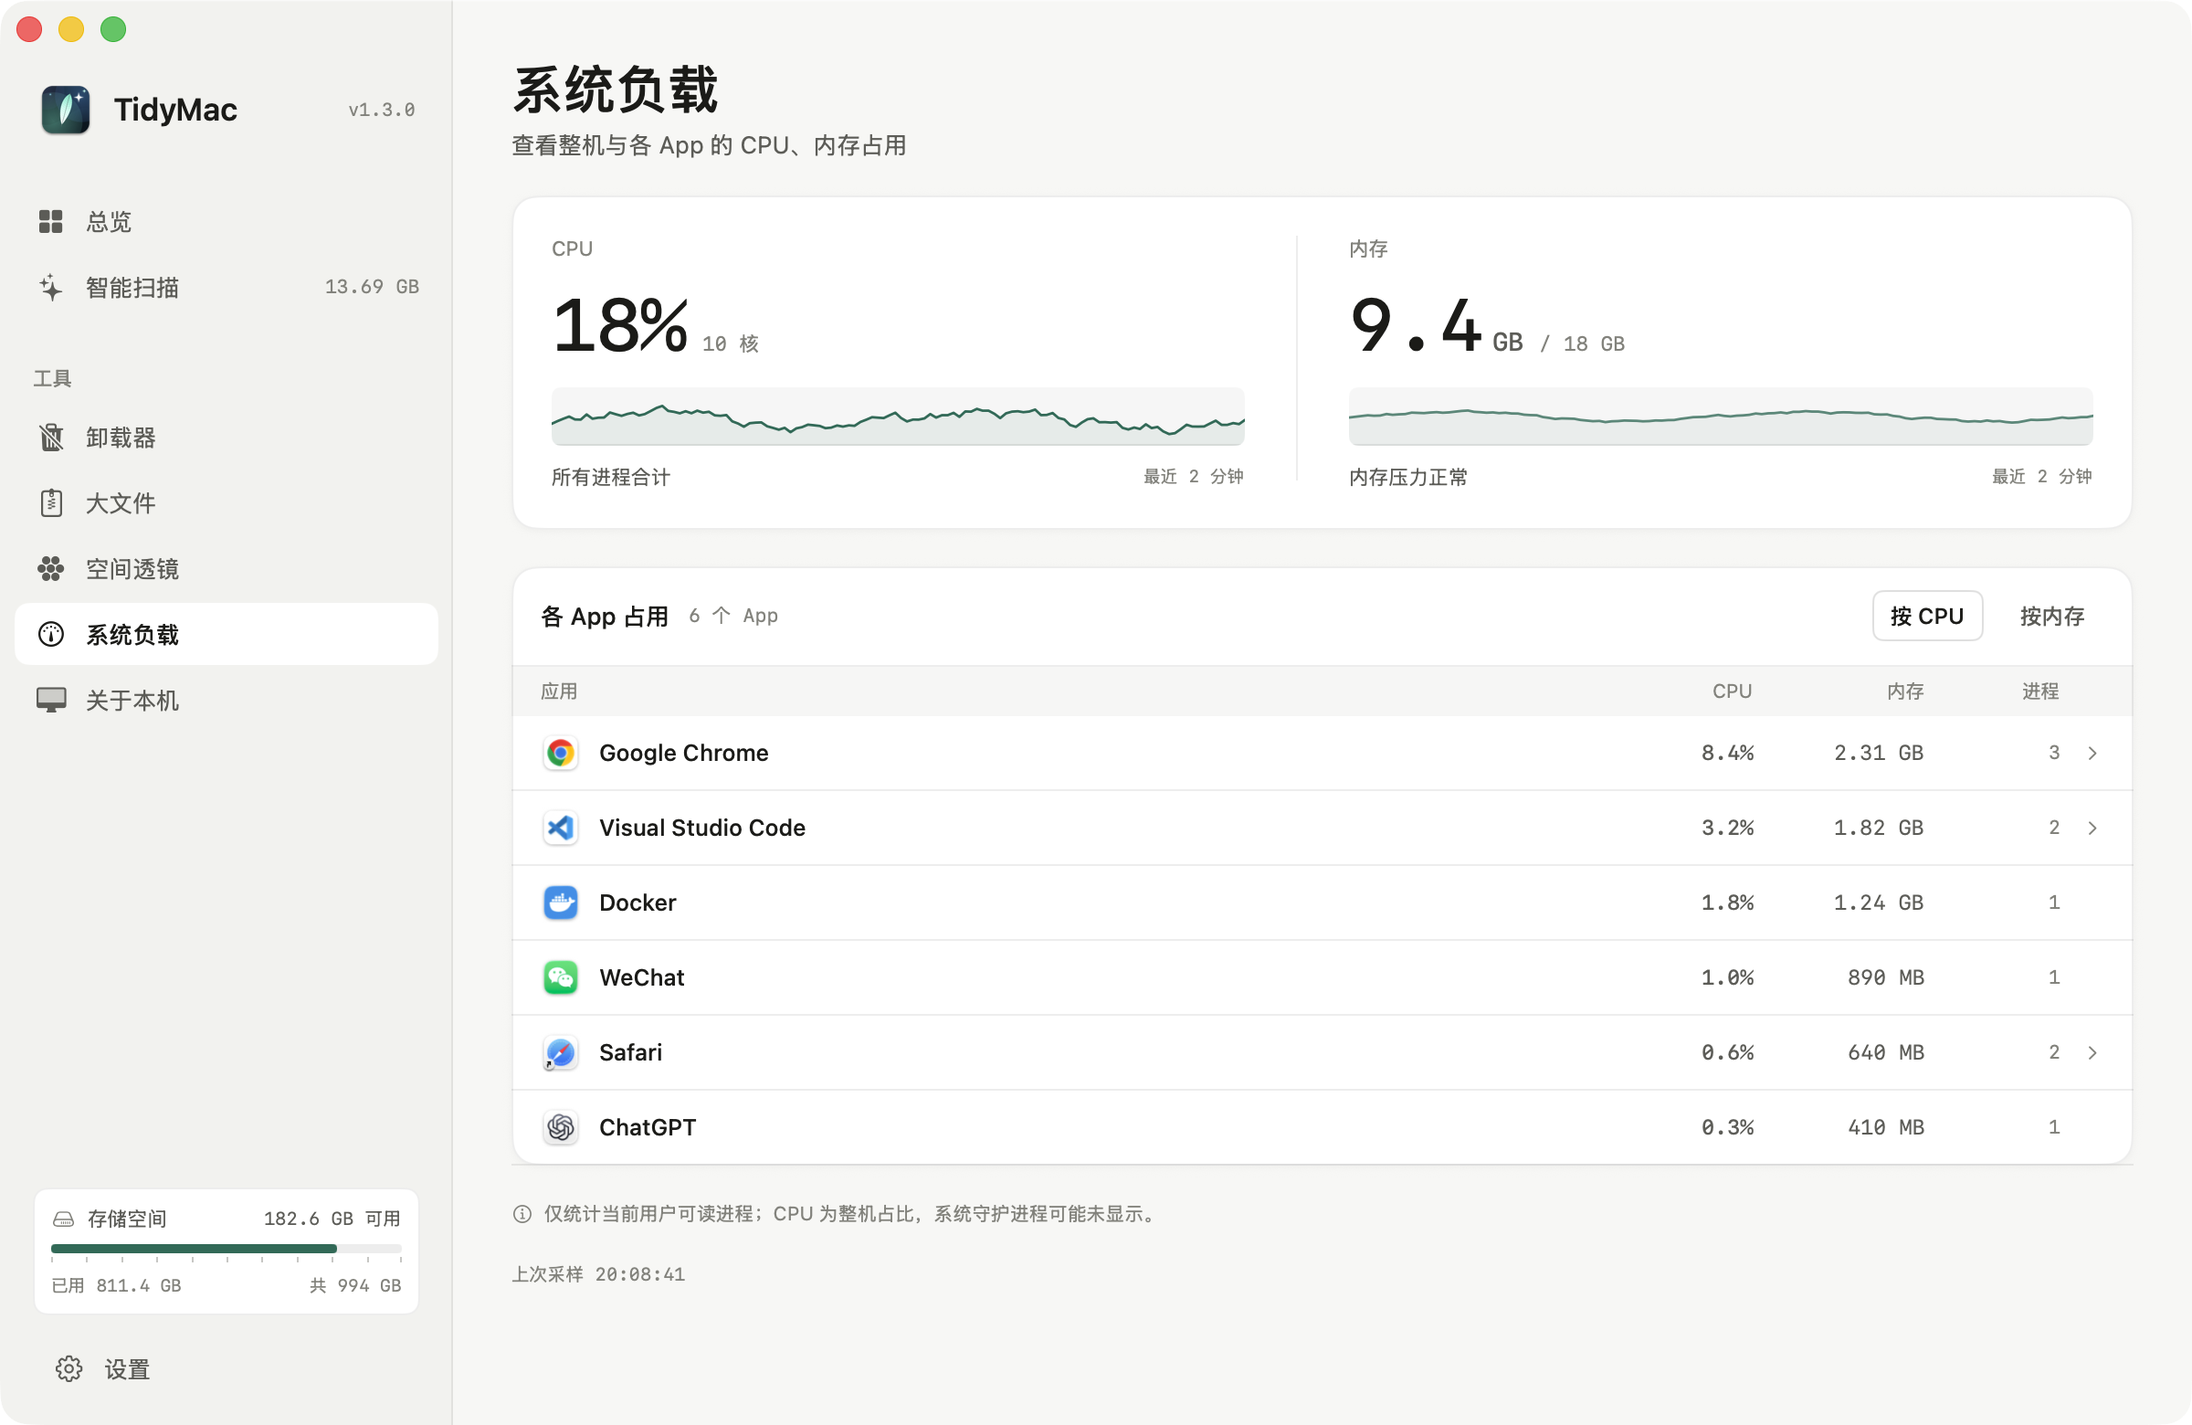
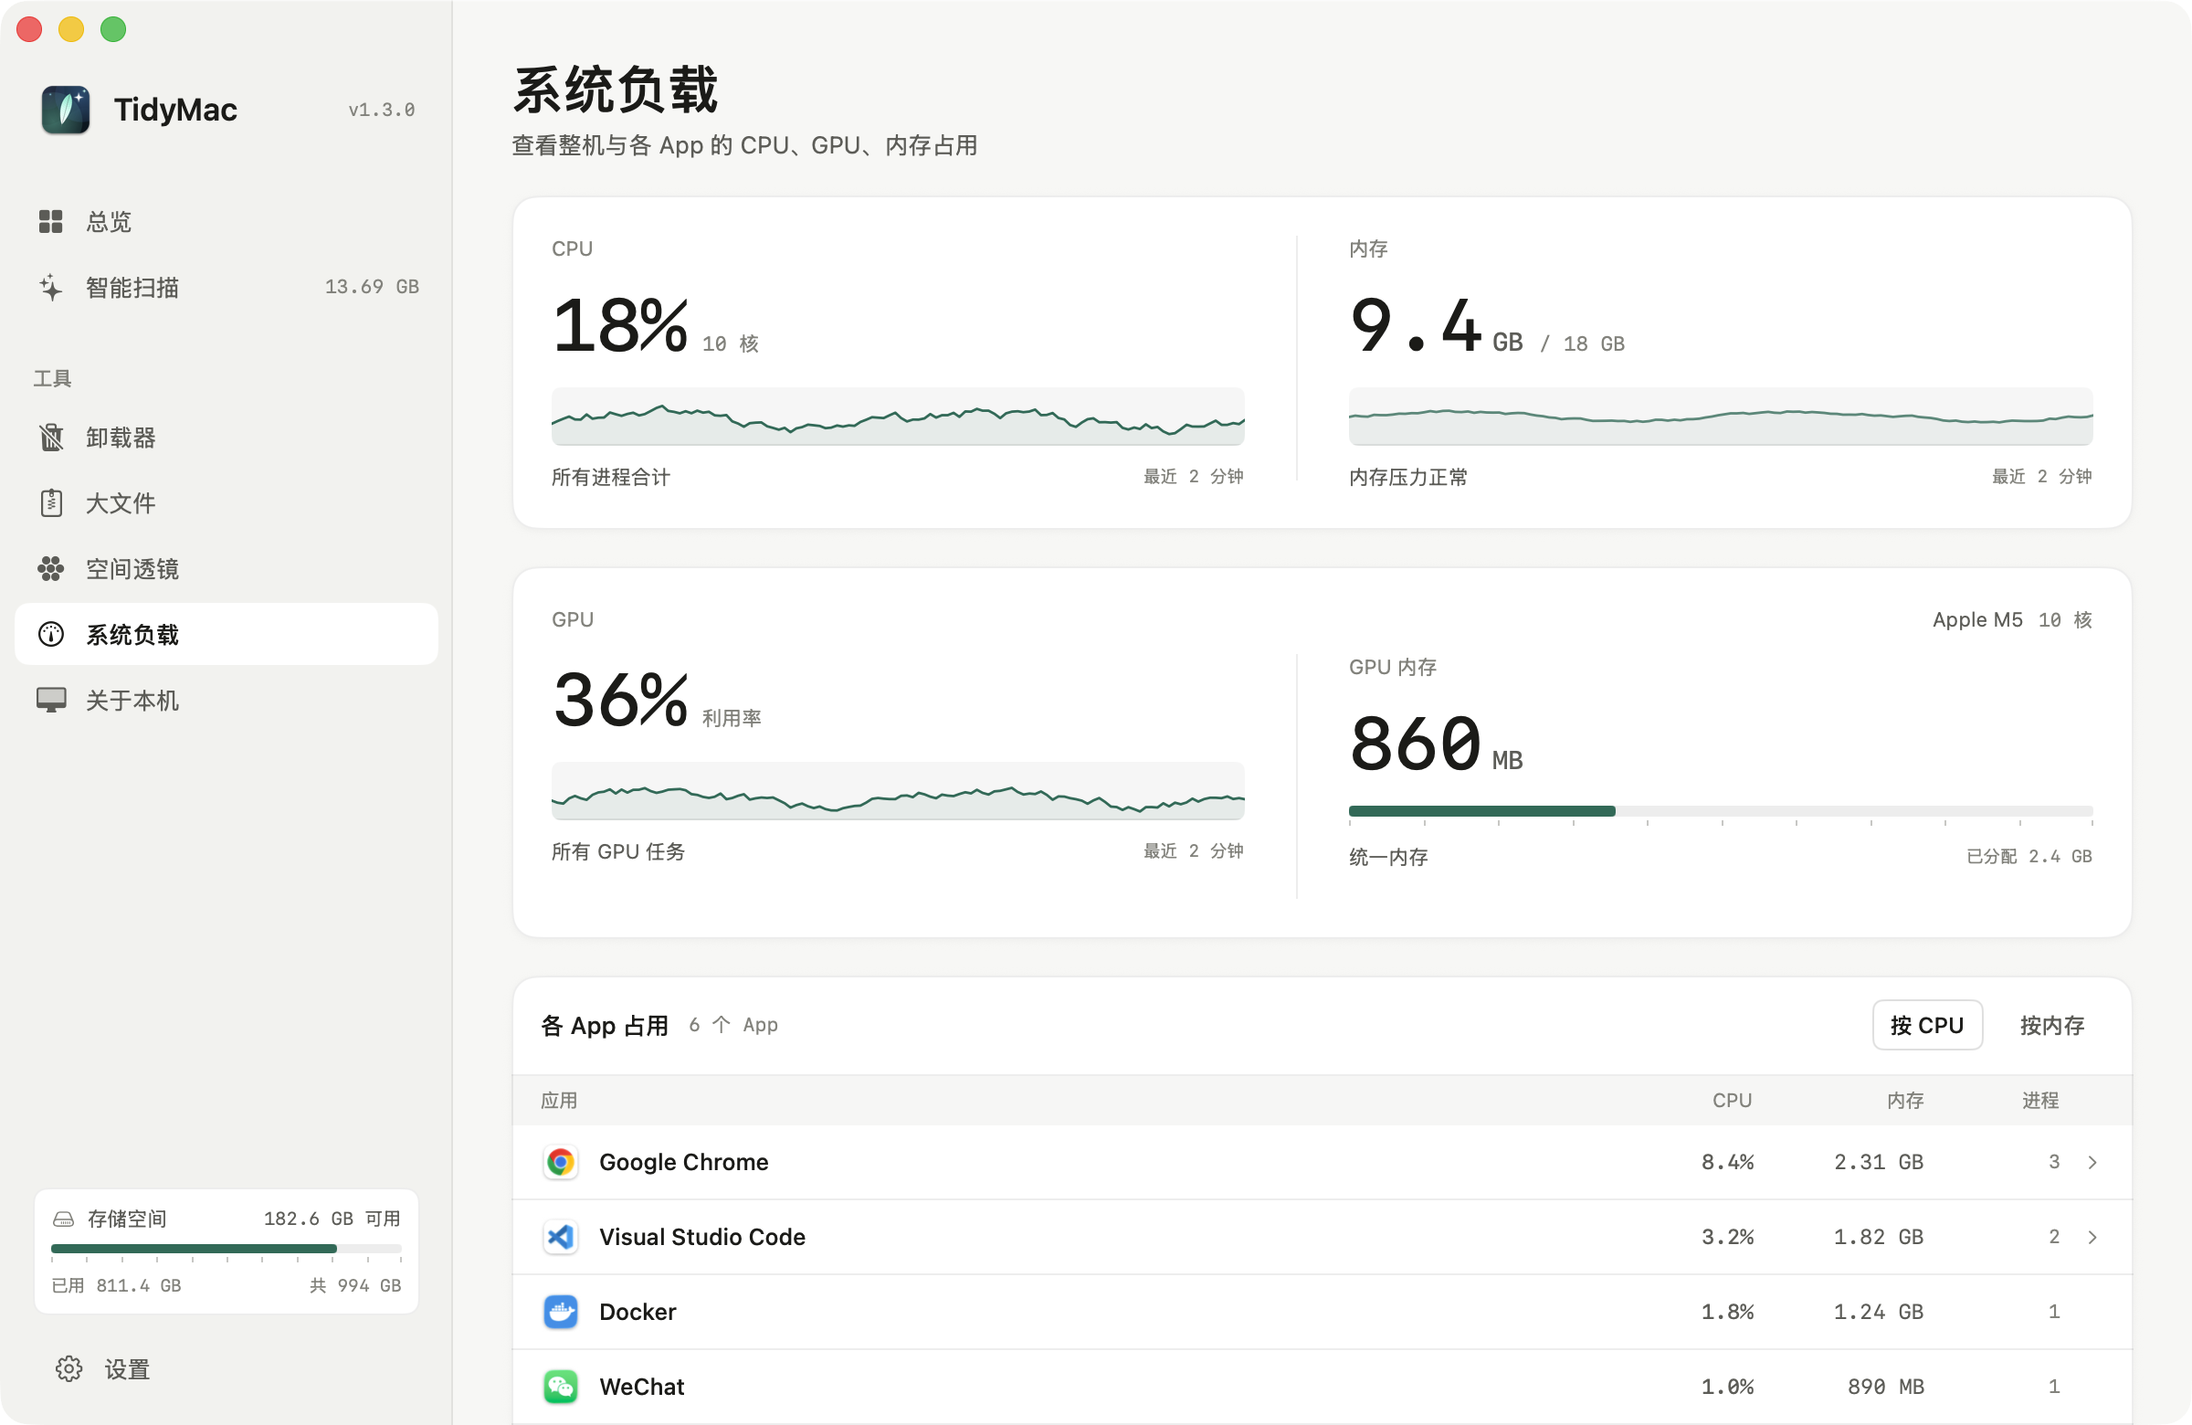
feat(ui): add GPU utilization and memory to System Load

diff --git a/Sources/UI/SystemLoadPage.swift b/Sources/UI/SystemLoadPage.swift
@@ -26,9 +26,10 @@ struct SystemLoadPage: View {
     var body: some View {
         ScrollView(showsIndicators: false) {
             VStack(alignment: .leading, spacing: 20) {
-                PageHeader(title: "系统负载", subtitle: "查看整机与各 App 的 CPU、内存占用")
+                PageHeader(title: "系统负载", subtitle: "查看整机与各 App 的 CPU、GPU、内存占用")
 
                 overallCard
+                gpuCard
                 appsCard
 
                 HStack(spacing: 6) {
@@ -176,6 +177,10 @@ struct SystemLoadPage: View {
         trend(monitor.memoryHistory, current: memoryFraction)
     }
 
+    private var gpuHistory: [Double] {
+        trend(monitor.gpuHistory, current: monitor.snapshot?.gpu?.utilizationFraction ?? 0)
+    }
+
     private func trend(_ history: [Double], current: Double) -> [Double] {
         history.count > 1 ? history : [current, current]
     }
@@ -197,6 +202,123 @@ struct SystemLoadPage: View {
         case .normal, .none: return Theme.textSecondary
         case .warning: return Theme.caution
         case .critical: return Theme.negative
+        }
+    }
+
+    // MARK: - GPU
+
+    private var gpuCard: some View {
+        VStack(alignment: .leading, spacing: 12) {
+            HStack(alignment: .firstTextBaseline, spacing: 8) {
+                Text("GPU")
+                    .font(.system(size: 11))
+                    .foregroundStyle(Theme.textTertiary)
+                Spacer(minLength: 8)
+                if let gpu = monitor.snapshot?.gpu {
+                    Text(gpu.model)
+                        .font(.system(size: 11))
+                        .foregroundStyle(Theme.textSecondary)
+                    if gpu.coreCount > 0 {
+                        Text(L("%@ 核", "\(gpu.coreCount)"))
+                            .font(Theme.monoFont(10.5))
+                            .foregroundStyle(Theme.textTertiary)
+                    }
+                }
+            }
+
+            if let gpu = monitor.snapshot?.gpu {
+                HStack(alignment: .top, spacing: 0) {
+                    gpuUtilizationColumn(gpu)
+                        .frame(maxWidth: .infinity, alignment: .leading)
+                        .padding(.trailing, 28)
+
+                    Rectangle()
+                        .fill(Theme.stroke)
+                        .frame(width: 1, height: 134)
+                        .padding(.trailing, 28)
+
+                    gpuMemoryColumn(gpu)
+                        .frame(maxWidth: .infinity, alignment: .leading)
+                }
+            } else {
+                Text(L("无法读取此设备的 GPU 统计"))
+                    .font(.system(size: 11))
+                    .foregroundStyle(Theme.textSecondary)
+                    .padding(.vertical, 8)
+            }
+        }
+        .qyPanel(padding: 22)
+    }
+
+    private func gpuUtilizationColumn(_ gpu: GPUMetrics) -> some View {
+        VStack(alignment: .leading, spacing: 10) {
+            HStack(alignment: .firstTextBaseline, spacing: 8) {
+                let text = percent(gpu.utilizationFraction)
+                Text(text)
+                    .font(Theme.monoFont(40, weight: .medium))
+                    .foregroundStyle(Theme.textPrimary)
+                    .contentTransition(.numericText())
+                    .animation(.easeOut(duration: 0.28), value: text)
+                Text(L("利用率"))
+                    .font(Theme.monoFont(11))
+                    .foregroundStyle(Theme.textTertiary)
+            }
+
+            LoadTrendChart(values: gpuHistory, color: Theme.accent, minimumSpan: 0.08)
+                .frame(height: 32)
+                .padding(.top, 2)
+
+            HStack(spacing: 8) {
+                Text(L("所有 GPU 任务"))
+                    .font(.system(size: 11))
+                    .foregroundStyle(Theme.textSecondary)
+                Spacer(minLength: 8)
+                Text(trendWindowLabel(monitor.gpuHistory.count))
+                    .font(Theme.monoFont(9.5))
+                    .foregroundStyle(Theme.textTertiary)
+            }
+        }
+    }
+
+    private func gpuMemoryColumn(_ gpu: GPUMetrics) -> some View {
+        VStack(alignment: .leading, spacing: 10) {
+            Text(L("GPU 内存"))
+                .font(.system(size: 11))
+                .foregroundStyle(Theme.textTertiary)
+
+            HStack(alignment: .firstTextBaseline, spacing: 4) {
+                let parts = Format.bytesParts(gpu.inUseBytes)
+                Text(parts.number)
+                    .font(Theme.monoFont(40, weight: .medium))
+                    .foregroundStyle(Theme.textPrimary)
+                    .contentTransition(.numericText())
+                    .animation(.easeOut(duration: 0.28), value: parts.number)
+                if !parts.unit.isEmpty {
+                    Text(parts.unit)
+                        .font(Theme.monoFont(14, weight: .medium))
+                        .foregroundStyle(Theme.textSecondary)
+                        .contentTransition(.numericText())
+                        .animation(.easeOut(duration: 0.28), value: parts.unit)
+                }
+            }
+
+            CapacityRuler(
+                fraction: gpu.allocatedBytes > 0
+                    ? min(Double(gpu.inUseBytes) / Double(gpu.allocatedBytes), 1)
+                    : 0,
+                height: 6
+            )
+            .padding(.top, 2)
+
+            HStack(spacing: 8) {
+                Text(L("统一内存"))
+                    .font(.system(size: 11))
+                    .foregroundStyle(Theme.textSecondary)
+                Spacer(minLength: 8)
+                Text(L("已分配 %@", Format.bytes(gpu.allocatedBytes)))
+                    .font(Theme.monoFont(9.5))
+                    .foregroundStyle(Theme.textTertiary)
+            }
         }
     }
 

diff --git a/Sources/Core/SystemMetrics.swift b/Sources/Core/SystemMetrics.swift
@@ -43,6 +43,7 @@ struct SystemLoadSnapshot: Equatable, Sendable {
     let memoryTotalBytes: Int64
     let memoryPressure: MemoryPressureLevel
     let swapUsedBytes: Int64
+    let gpu: GPUMetrics?
     let appUsages: [AppUsage]
     let readableProcessCount: Int
     let sampledAt: Date
@@ -59,6 +60,7 @@ final class SystemLoadMonitor: ObservableObject {
     @Published private(set) var isSampling = false
     @Published private(set) var cpuHistory: [Double] = []
     @Published private(set) var memoryHistory: [Double] = []
+    @Published private(set) var gpuHistory: [Double] = []
 
     /// One-second cadence × 120 samples = a two-minute trend.
     static let refreshInterval: TimeInterval = 1
@@ -107,7 +109,14 @@ final class SystemLoadMonitor: ObservableObject {
                     self.memoryHistory = Self.demoHistory(
                         base: Double(demo.memoryUsedBytes) / Double(max(demo.memoryTotalBytes, 1)),
                         amplitude: 0.007,
-                        noiseScale: 0.25
+                        noiseScale: 0.25,
+                        seed: 0x5DEE_CE66_D1F1_3A55
+                    )
+                    self.gpuHistory = Self.demoHistory(
+                        base: demo.gpu?.utilizationFraction ?? 0.36,
+                        amplitude: 0.030,
+                        noiseScale: 0.55,
+                        seed: 0xC0FF_EE00_1234_5678
                     )
                     self.isSampling = true
                 }
@@ -124,6 +133,7 @@ final class SystemLoadMonitor: ObservableObject {
             DispatchQueue.main.async {
                 self.cpuHistory = []
                 self.memoryHistory = []
+                self.gpuHistory = []
                 self.isSampling = true
             }
         }
@@ -171,6 +181,7 @@ final class SystemLoadMonitor: ObservableObject {
 
         let cpu = sampleHostCPU()
         let memory = sampleMemory()
+        let gpu = GPUProbe.sample()
         let apps: (usages: [AppUsage], readable: Int) = includeApps
             ? sampleApps(elapsed: elapsed)
             : ([], 0)
@@ -184,6 +195,7 @@ final class SystemLoadMonitor: ObservableObject {
             memoryTotalBytes: memory.total,
             memoryPressure: memory.pressure,
             swapUsedBytes: memory.swapUsed,
+            gpu: gpu,
             appUsages: apps.usages,
             readableProcessCount: apps.readable,
             sampledAt: Date()
@@ -196,11 +208,15 @@ final class SystemLoadMonitor: ObservableObject {
         DispatchQueue.main.async { [weak self] in
             guard let self else { return }
             self.snapshot = snapshot
-            self.appendHistory(cpu: snapshot.cpuFraction, memory: memoryFraction)
+            self.appendHistory(
+                cpu: snapshot.cpuFraction,
+                memory: memoryFraction,
+                gpu: snapshot.gpu?.utilizationFraction
+            )
         }
     }
 
-    private func appendHistory(cpu: Double, memory: Double) {
+    private func appendHistory(cpu: Double, memory: Double, gpu: Double?) {
         cpuHistory.append(min(max(cpu, 0), 1))
         if cpuHistory.count > Self.historyCapacity {
             cpuHistory.removeFirst(cpuHistory.count - Self.historyCapacity)
@@ -209,14 +225,21 @@ final class SystemLoadMonitor: ObservableObject {
         if memoryHistory.count > Self.historyCapacity {
             memoryHistory.removeFirst(memoryHistory.count - Self.historyCapacity)
         }
+        if let gpu {
+            gpuHistory.append(min(max(gpu, 0), 1))
+            if gpuHistory.count > Self.historyCapacity {
+                gpuHistory.removeFirst(gpuHistory.count - Self.historyCapacity)
+            }
+        }
     }
 
     private static func demoHistory(
         base: Double,
         amplitude: Double,
-        noiseScale: Double
+        noiseScale: Double,
+        seed: UInt64 = 0x9E37_79B9_7F4A_7C15
     ) -> [Double] {
-        var seed: UInt64 = 0x9E37_79B9_7F4A_7C15
+        var seed = seed
         var value = base
         return (0..<Self.historyCapacity).map { index in
             seed = seed &* 6_364_136_223_846_793_005 &+ 1_442_695_040_888_963_407
@@ -470,6 +493,13 @@ final class SystemLoadMonitor: ObservableObject {
             memoryTotalBytes: 18_000_000_000,
             memoryPressure: .normal,
             swapUsedBytes: 0,
+            gpu: GPUMetrics(
+                utilizationFraction: 0.36,
+                allocatedBytes: 2_400_000_000,
+                inUseBytes: 860_000_000,
+                coreCount: 10,
+                model: "Apple M5"
+            ),
             appUsages: apps,
             readableProcessCount: 11,
             sampledAt: Date()

diff --git a/Sources/Core/GPUStats.swift b/Sources/Core/GPUStats.swift
@@ -1,0 +1,88 @@
+import Foundation
+import IOKit
+
+/// Whole-machine GPU readings exposed by the accelerator driver.
+///
+/// Apple Silicon reports these through the `IOAccelerator` registry entry; no
+/// privileges are required. Values cover utilization and unified-memory use,
+/// not power, clocks or temperature (those need a privileged sampler).
+struct GPUMetrics: Equatable, Sendable {
+    let utilizationFraction: Double
+    let allocatedBytes: Int64
+    let inUseBytes: Int64
+    let coreCount: Int
+    let model: String
+}
+
+enum GPUProbe {
+    static func sample() -> GPUMetrics? {
+        var iterator: io_iterator_t = 0
+        guard IOServiceGetMatchingServices(
+            kIOMainPortDefault,
+            IOServiceMatching("IOAccelerator"),
+            &iterator
+        ) == KERN_SUCCESS else { return nil }
+        defer { IOObjectRelease(iterator) }
+
+        while case let entry = IOIteratorNext(iterator), entry != 0 {
+            defer { IOObjectRelease(entry) }
+
+            guard let stats = registryProperty(entry, "PerformanceStatistics") as? [String: Any],
+                  let utilization = utilizationFraction(from: stats) else { continue }
+
+            let allocated = int64(stats["Alloc system memory"]) ?? 0
+            let inUse = int64(stats["In use system memory"]) ?? 0
+            let model = registryProperty(entry, "model") as? String ?? "GPU"
+            let cores = int(registryProperty(entry, "gpu-core-count")) ?? 0
+
+            return GPUMetrics(
+                utilizationFraction: utilization,
+                allocatedBytes: max(allocated, 0),
+                inUseBytes: max(inUse, 0),
+                coreCount: max(cores, 0),
+                model: model
+            )
+        }
+
+        return nil
+    }
+
+    private static func utilizationFraction(from stats: [String: Any]) -> Double? {
+        for key in ["Device Utilization %", "GPU Activity(%)", "GPU Activity %"] {
+            if let value = number(stats[key]) {
+                return min(max(value / 100, 0), 1)
+            }
+        }
+        return nil
+    }
+
+    private static func registryProperty(_ entry: io_registry_entry_t, _ key: String) -> Any? {
+        IORegistryEntryCreateCFProperty(
+            entry,
+            key as CFString,
+            kCFAllocatorDefault,
+            0
+        )?.takeRetainedValue()
+    }
+
+    private static func number(_ value: Any?) -> Double? {
+        if let number = value as? NSNumber { return number.doubleValue }
+        if let double = value as? Double { return double }
+        if let int = value as? Int { return Double(int) }
+        return nil
+    }
+
+    private static func int64(_ value: Any?) -> Int64? {
+        if let number = value as? NSNumber { return number.int64Value }
+        if let int = value as? Int64 { return int }
+        if let int = value as? Int { return Int64(int) }
+        if let double = value as? Double { return Int64(double) }
+        return nil
+    }
+
+    private static func int(_ value: Any?) -> Int? {
+        if let number = value as? NSNumber { return number.intValue }
+        if let int = value as? Int { return int }
+        return nil
+    }
+}

diff --git a/README.md b/README.md
@@ -42,7 +42,7 @@ Also available as a [DMG disk image](https://github.com/welefen/TidyMac/raw/main
 - Re-analyze any folder you choose
 
 ### System Load
-- Live CPU and memory overview: current usage, last-2-minute trend recorded from app launch, memory pressure and swap
+- Live CPU, GPU and memory overview: whole-machine usage, last-2-minute trend recorded from app launch, memory pressure and swap; GPU shows utilization, unified-memory use and core count
 - Per-app CPU and memory, aggregated across helper processes, with expandable process details
 - One-second refresh; only processes readable by the current user are counted
 - Row order stays fixed while the pointer is over the list, so the end-app button keeps its place

diff --git a/README.zh-CN.md b/README.zh-CN.md
@@ -42,7 +42,7 @@ TidyMac 是一个原生 SwiftUI macOS 应用：扫描系统缓存与开发者垃
 - 支持选择任意目录重新分析
 
 ### 系统负载
-- 整机 CPU 与内存总览：使用率、最近 2 分钟趋势（应用启动后即开始记录）、内存压力与交换空间
+- 整机 CPU、GPU 与内存总览：整机使用率、最近 2 分钟趋势（应用启动后即开始记录）、内存压力与交换空间；GPU 显示利用率、统一内存占用与核心数
 - 按 App 汇总 CPU 与内存占用，并展开查看各子进程明细
 - 每秒刷新；仅统计当前用户可读取的进程
 - 鼠标停留在应用列表时行序保持稳定，结束按钮不会中途移位
